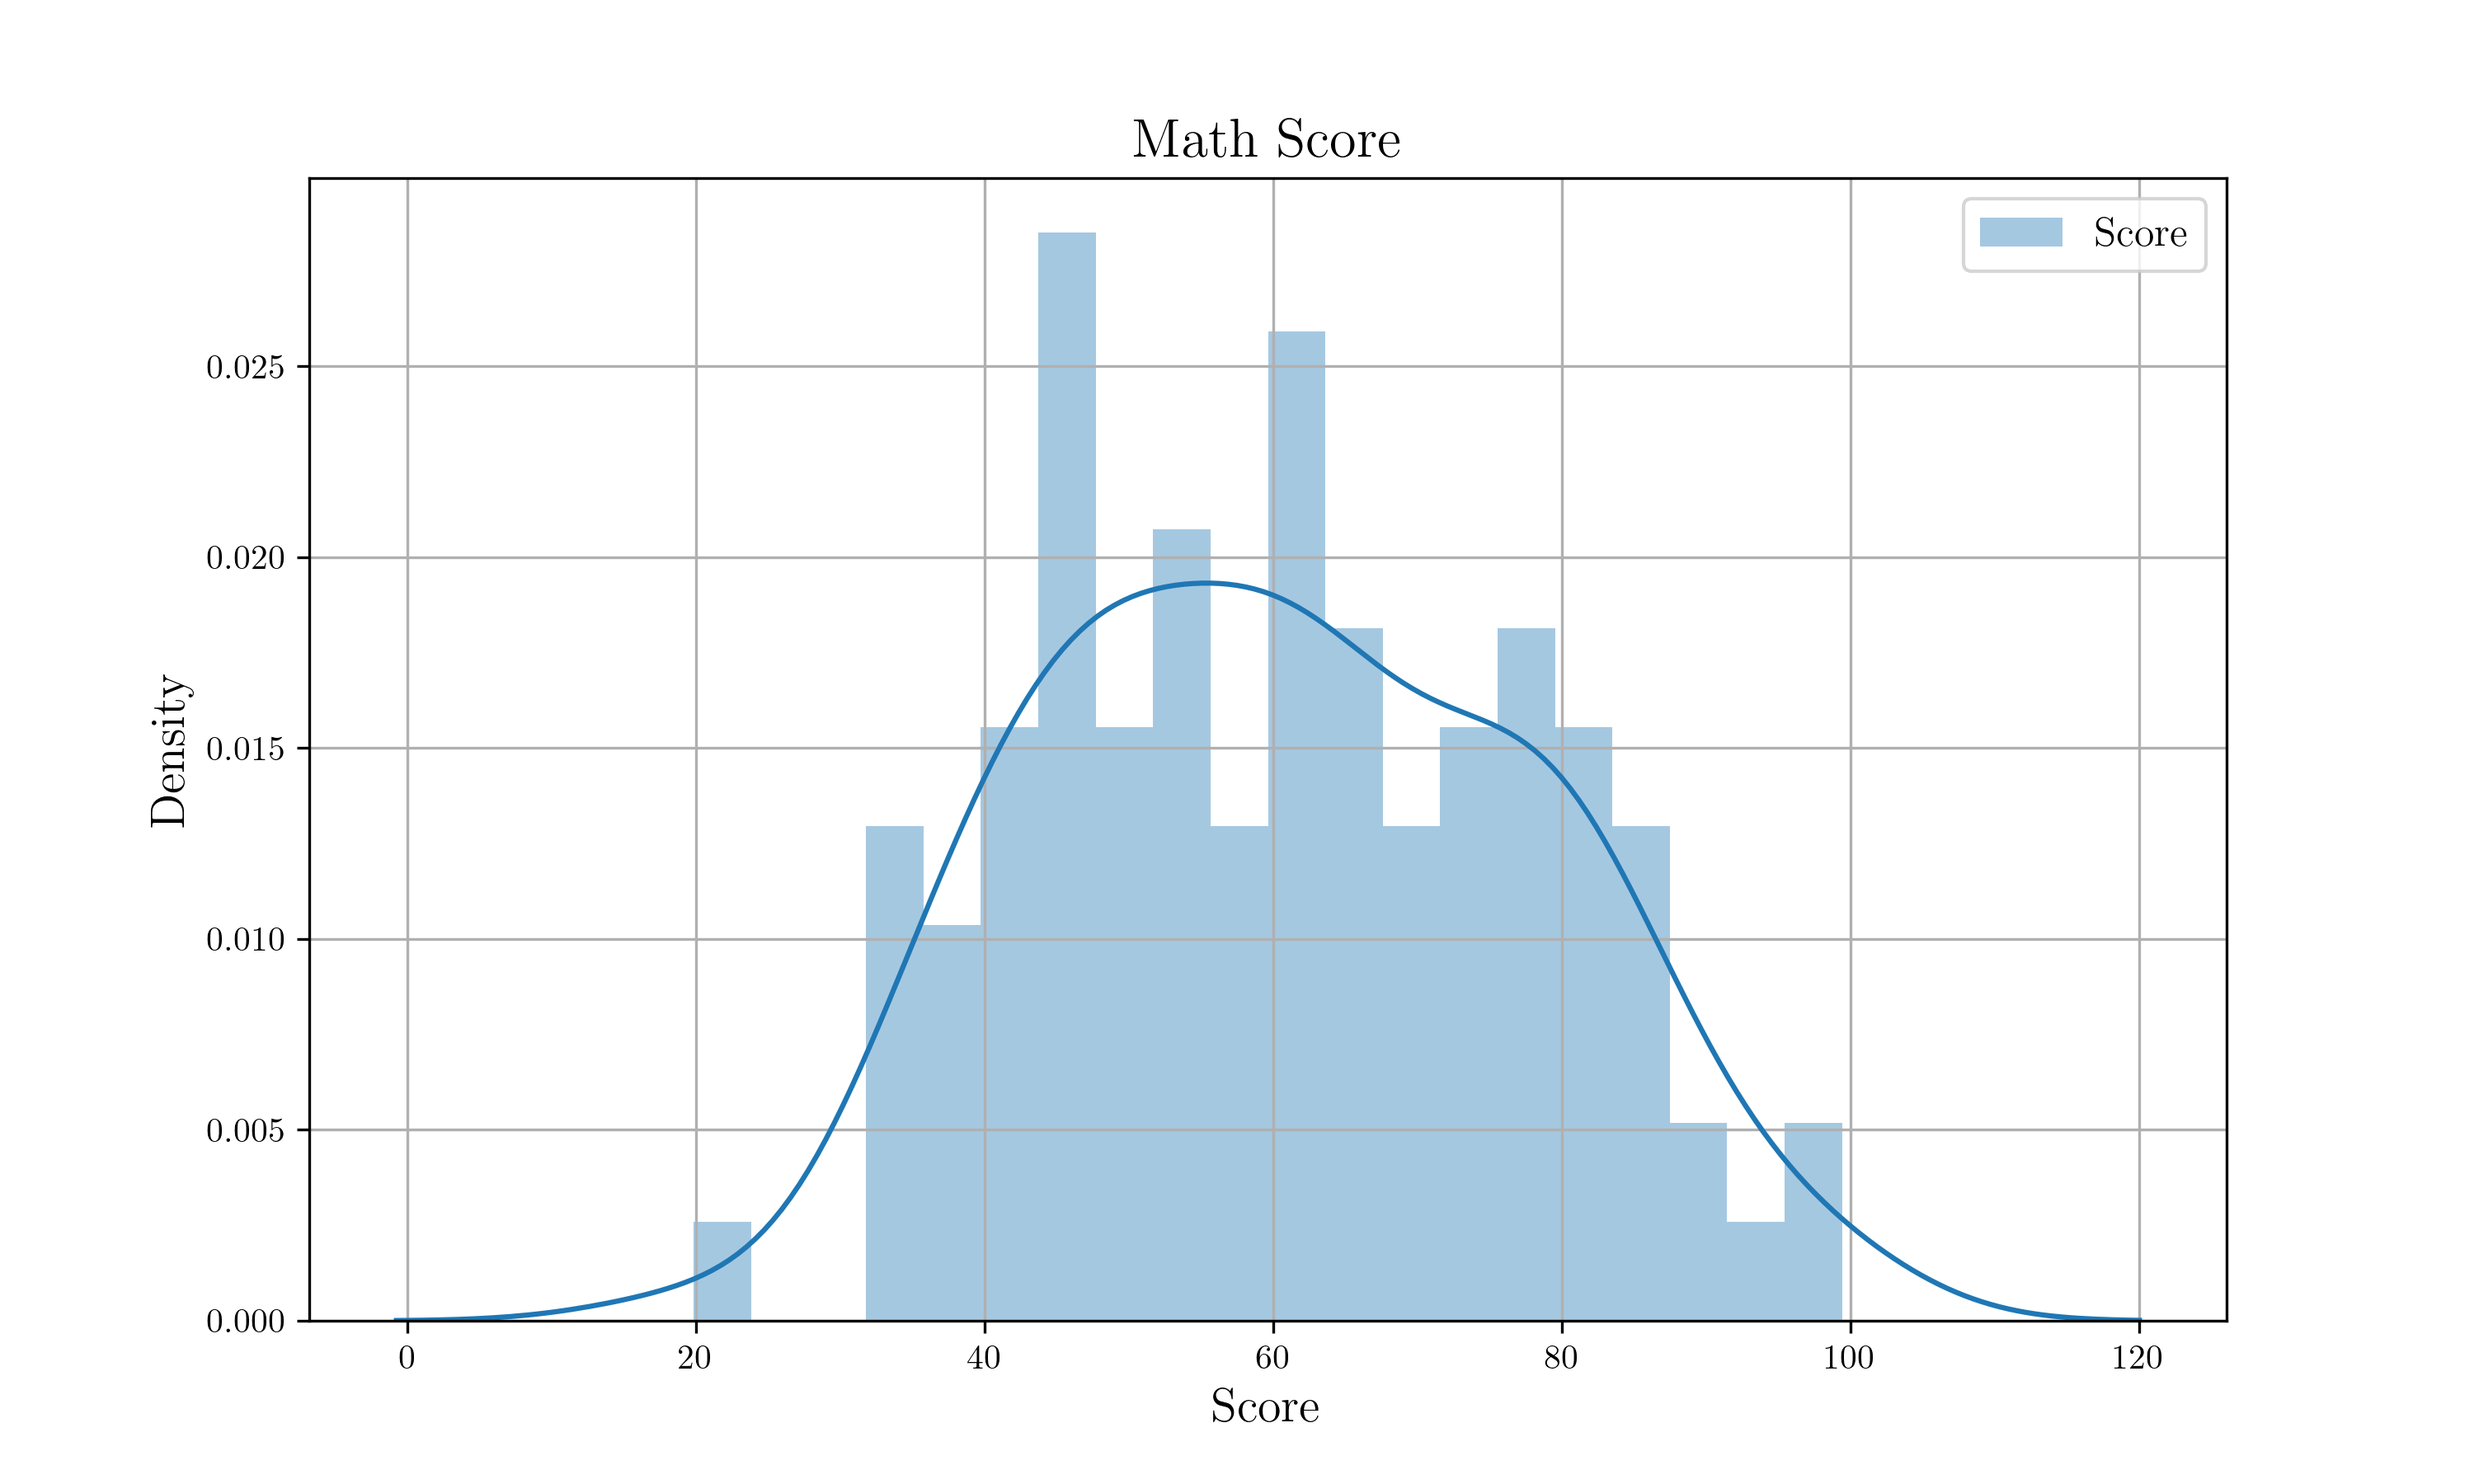
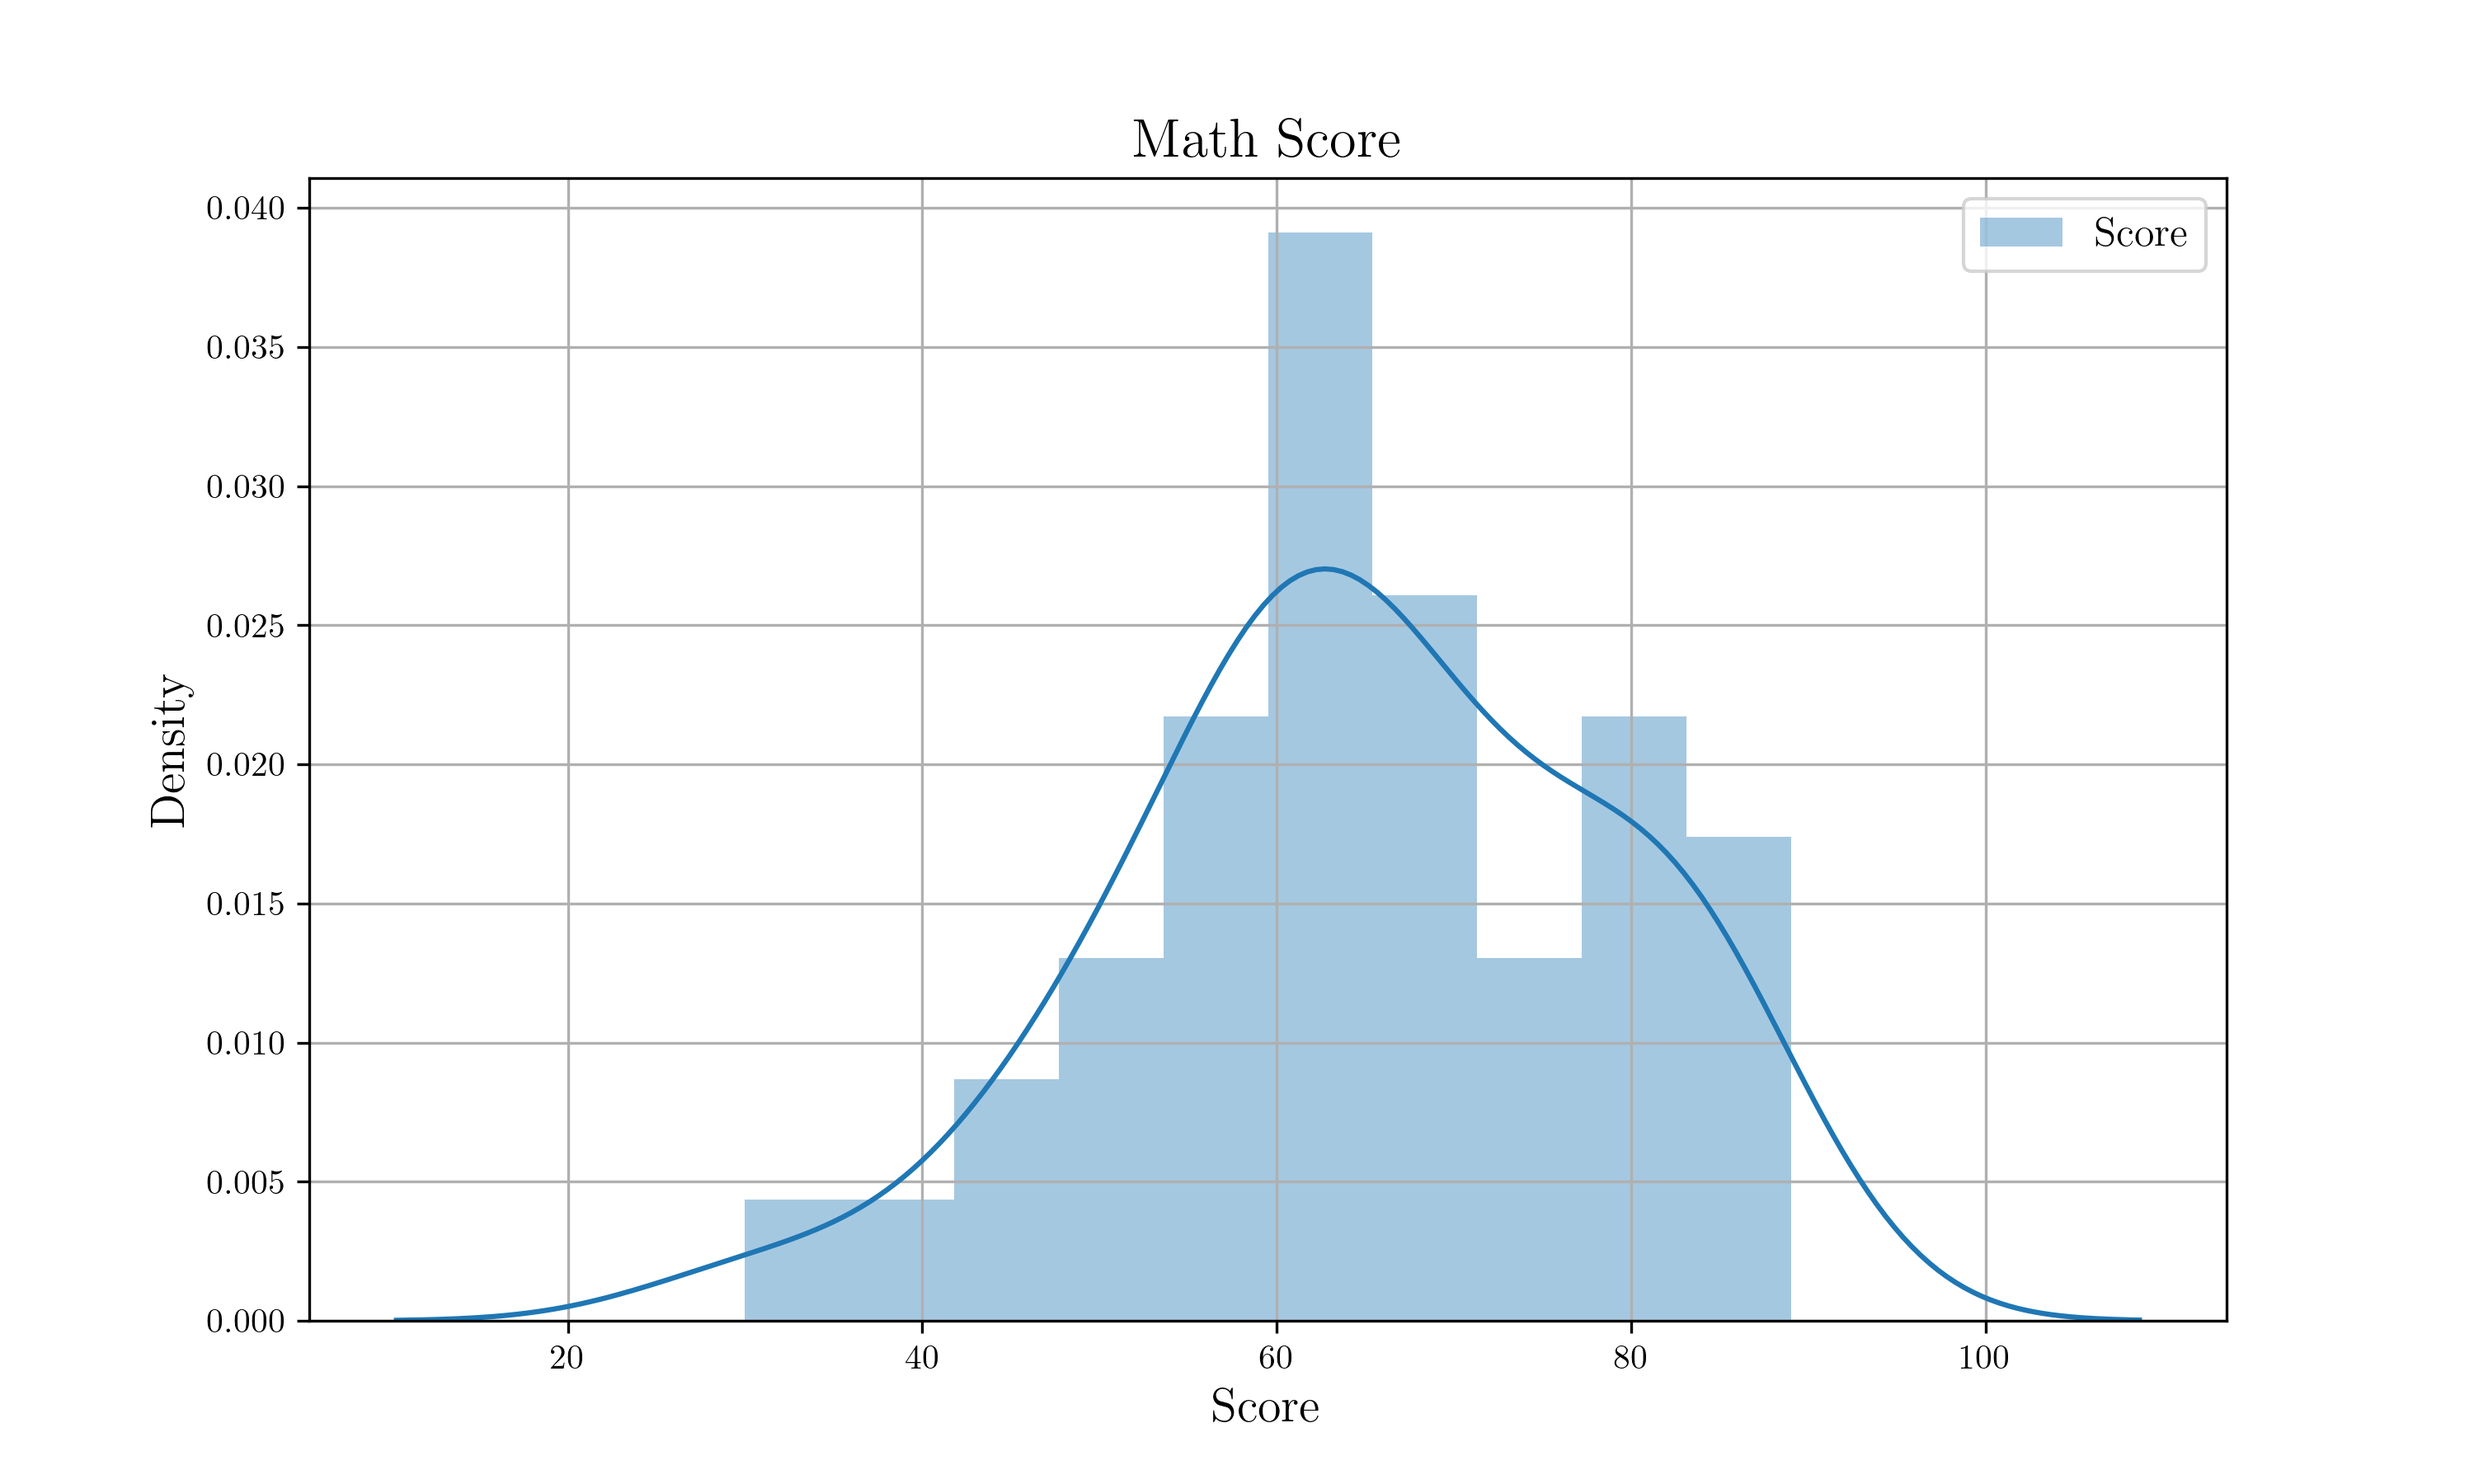
Suneung 2020

diff --git a/003_linreg/noise/src/main.rs b/003_linreg/noise/src/main.rs
@@ -5,7 +5,7 @@ fn main() {
     let n = Normal(60, 20);
     //let eps = Normal(0, 5);
     //let y = n.sample(100).add_v(&eps.sample(100)).filter(|x| x <= 100f64);
-    let y = n.sample(100).filter(|x| x <= 100f64);
+    let y = n.sample(40).iter().map(|t| t.round()).filter(|x| *x <= 100f64).collect();
     
     let mut df = DataFrame::new(vec![]);
     df.push("y", Series::new(y));

diff --git a/003_linreg/noise/nc_plot.py b/003_linreg/noise/nc_plot.py
@@ -21,7 +21,7 @@ plt.ylabel(r'Density', fontsize=14)
 y = var['y'][:]  
 
 # Plot with Legends
-sns.distplot(y, label=r"Score", bins=20)
+sns.distplot(y, label=r"Score", bins=10)
 
 # Other options
 plt.legend(fontsize=12)

diff --git a/003_linreg/noise/src/bin/suneung_2020.rs b/003_linreg/noise/src/bin/suneung_2020.rs
@@ -1,0 +1,7 @@
+extern crate peroxide;
+use peroxide::fuga::*;
+
+fn main() {
+    let n = Normal(59.87, 20.22);
+    (1f64 - n.cdf(91)).print();
+}
